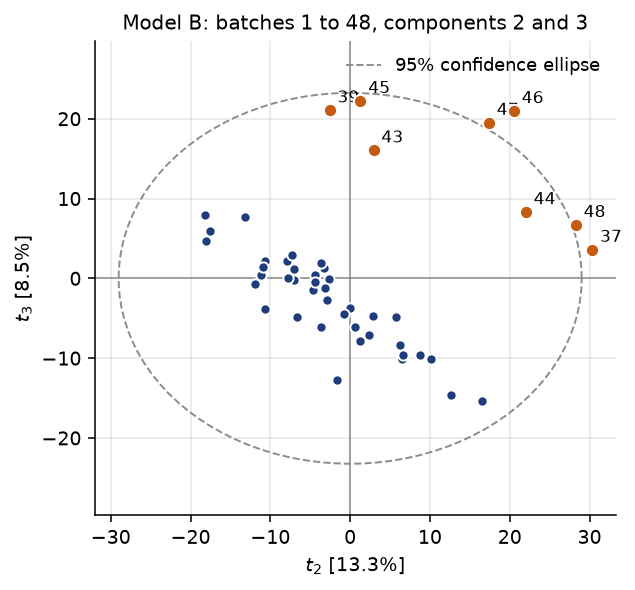
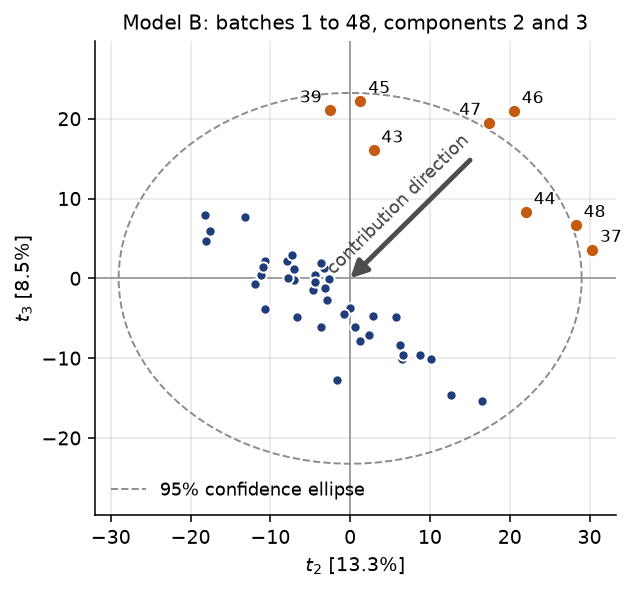
DuPont model B score plot: arrow from the group's average point to the model centre
The arrow, labelled "contribution direction", shows the displacement the
group contribution plot decomposes. The score-plot helper gains label_left
(labels 39 and 47 sat on their neighbours) and legend_loc (the legend sat
on the group); other score plots are unchanged.

Claude-Session: https://claude.ai/code/session_01LXthGpHLQFfGubBiKFtGAE

diff --git a/batch/batch-case-dupont-figures.py b/batch/batch-case-dupont-figures.py
@@ -37,6 +37,7 @@ ABOVE_SPE_LIMIT = [49, 51]  # a residual the two components cannot describe
 ABOVE_T2_LIMIT = [50, 52, 53, 54, 55]  # extreme along the components themselves
 FLAGGED = {**{b: AQUA for b in ABOVE_T2_LIMIT}, **{b: ORANGE for b in ABOVE_SPE_LIMIT}}
 SECOND_CLUSTER = [37, 39, 43, 44, 45, 46, 47, 48]
+ARROW = "0.3"  # the contribution direction drawn on the model B score plot
 CLUSTER_TAGS = ["TempC-1", "Press-3", "Press-2"]  # the three largest |t2| + |t3| contributions of the cluster
 EARLY_WINDOW = 25  # samples 0 to 25 carry 66% of the cluster's t2 and 90% of its t3 contribution
 RAW_WINDOW = 30
@@ -73,7 +74,17 @@ def main(out_dir: pathlib.Path) -> None:
 
     kept_b = {b: batch for b, batch in batches.items() if b < SPE_OUTLIER}
     model_b = BatchPCA(n_components=3).fit(kept_b)
-    fig = score_plot(model_b, pc_horiz=2, pc_vert=3, highlight={b: ORANGE for b in SECOND_CLUSTER}, labels=SECOND_CLUSTER, title="Model B: batches 1 to 48, components 2 and 3")
+    fig = score_plot(model_b, pc_horiz=2, pc_vert=3, highlight={b: ORANGE for b in SECOND_CLUSTER}, labels=SECOND_CLUSTER,
+                     label_left=(39, 47), legend_loc="lower left", title="Model B: batches 1 to 48, components 2 and 3")
+    # The contributions below compare the group with the model centre: draw that direction, from the group's average
+    # point to the origin, with its label riding along the arrow (the axes have equal scales, so the data angle holds).
+    group_t2, group_t3 = model_b.scores_.loc[SECOND_CLUSTER].iloc[:, 1:3].mean()
+    ax = fig.axes[0]
+    ax.annotate("", xy=(0, 0), xytext=(group_t2, group_t3), zorder=5,
+                arrowprops={"arrowstyle": "-|>", "lw": 2.5, "color": ARROW, "shrinkA": 0, "shrinkB": 0, "mutation_scale": 18})
+    ax.annotate("contribution direction", (group_t2 / 2, group_t3 / 2), xytext=(-3, 4), textcoords="offset points",
+                rotation=np.degrees(np.arctan2(group_t3, group_t2)), rotation_mode="anchor", ha="center", va="bottom",
+                fontsize=9, color=ARROW, zorder=5)
     save(fig, out_dir, "batch-case-dupont-model-b-scores")
 
     # The columns are centred, so the model centre is the origin and a group's mean row is

diff --git a/batch/batch_case_common.py b/batch/batch_case_common.py
@@ -106,11 +106,17 @@ def score_plot(
     pc_vert: int = 2,
     highlight: dict[int, str] | None = None,
     labels: list[int] | None = None,
+    label_left: tuple[int, ...] = (),
     conf_level: float = 0.95,
     title: str = "",
+    legend_loc: str = "upper right",
     ax=None,
 ) -> Figure:
-    """Scores on two components with the Hotelling's T2 ellipse; selected batches coloured and labelled."""
+    """Scores on two components with the Hotelling's T2 ellipse; selected batches coloured and labelled.
+
+    ``label_left`` names the batches whose label sits to the left of the marker, for the cases where the
+    default right-hand placement would collide with a neighbour.
+    """
     if ax is None:
         fig, ax = plt.subplots(figsize=(4.8, 4.4))
     else:
@@ -125,7 +131,9 @@ def score_plot(
     for batch_id, colour in highlight.items():
         ax.scatter(x.loc[batch_id], y.loc[batch_id], s=46, color=colour, edgecolor="white", linewidth=1, zorder=4)
     for batch_id in labels or []:
-        ax.annotate(str(batch_id), (x.loc[batch_id], y.loc[batch_id]), xytext=(4, 4), textcoords="offset points", fontsize=8.5)
+        left = batch_id in label_left
+        ax.annotate(str(batch_id), (x.loc[batch_id], y.loc[batch_id]), xytext=(-4 if left else 4, 4),
+                    textcoords="offset points", ha="right" if left else "left", fontsize=8.5)
     ax.axhline(0, color=GREY, lw=0.8)
     ax.axvline(0, color=GREY, lw=0.8)
     r2 = explained_per_component(model)
@@ -133,7 +141,7 @@ def score_plot(
     ax.set_ylabel(f"$t_{pc_vert}$ [{r2[pc_vert - 1]:.1%}]")
     ax.set_title(title)
     ax.set_aspect("equal", adjustable="datalim")
-    ax.legend(loc="upper right")
+    ax.legend(loc=legend_loc)
     return fig
 
 
